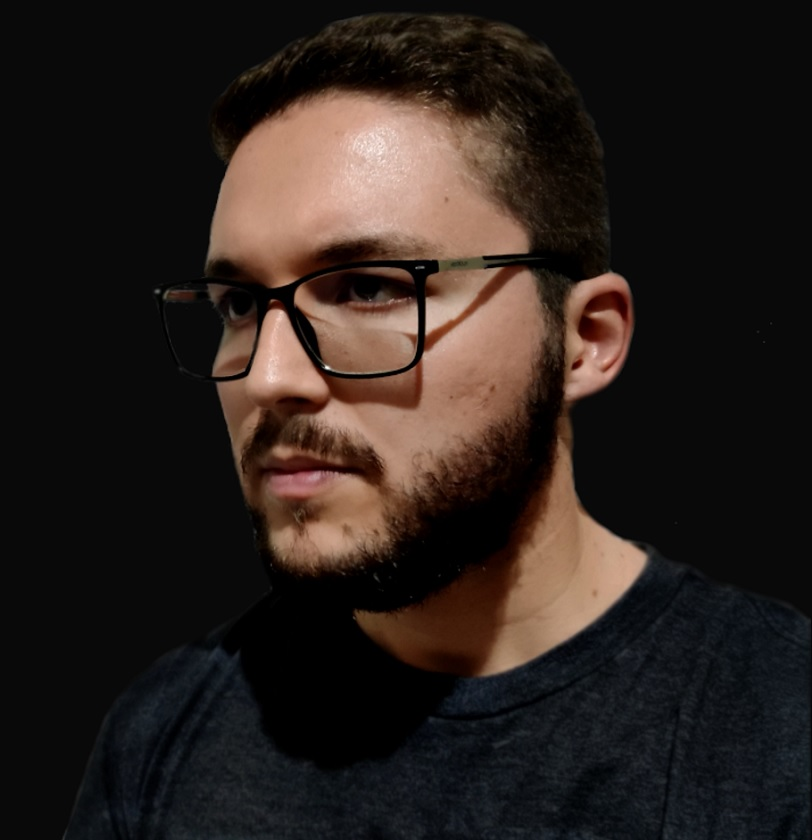
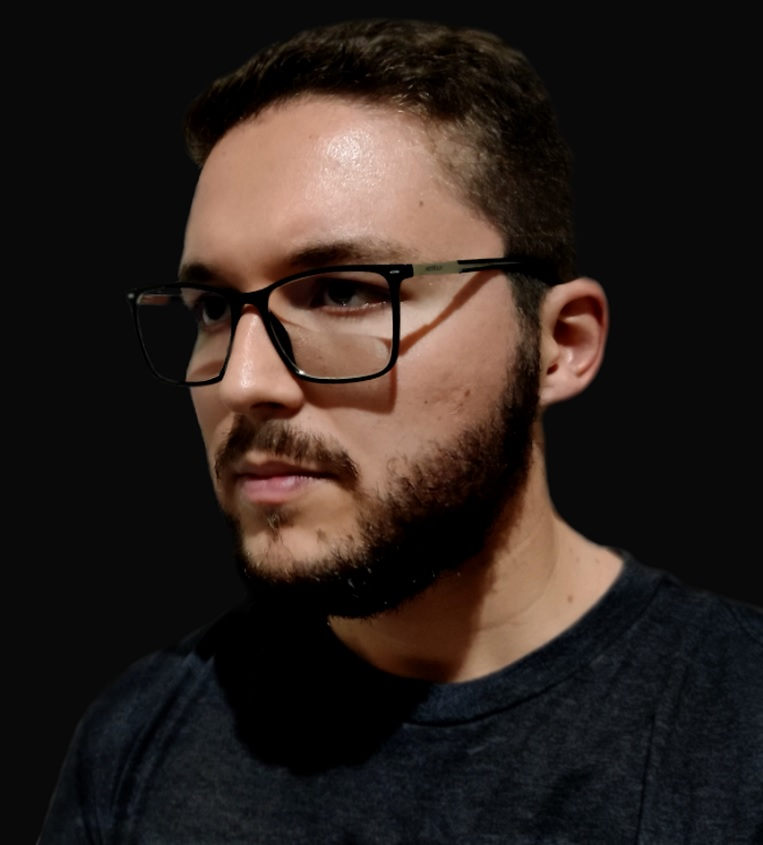
varias att

diff --git a/index.html b/index.html
@@ -4,7 +4,7 @@
 <head>
     <meta charset="utf-8">
     <meta name="viewport" content="width=device-width, initial-scale=1">
-    <title>Lucas F. Santos | Portifólio</title>
+    <title>Lucas F. Santos | DEV</title>
     <link rel="stylesheet" type="text/css" href="style.css">
 
     <link rel="stylesheet" href="https://unpkg.com/boxicons@latest/css/boxicons.min.css">
@@ -24,19 +24,19 @@
         <ul class="navbar">
             <li><a href="#home">Início</a></li>
             <li><a href="#about">Sobre Mim</a></li>
-            <li><a href="#services">Serviços</a></li>
+            <li><a href="#services">Formação</a></li>
             <li><a href="#portifolio">Portifólio</a></li>
             <li><a href="#contact">Contato</a></li>
         </ul>
-        <a href="#" class="h-btn">Vamos Conversar</a>
+        <a href="#" class="h-btn">Iniciar Conversa</a>
     </header>
 
     <!---start home-->
     <section class="home" id="home">
         <div class="home-text">
-            <h4>Olá, meu nome é</h4>
+            <h4>Olá! Meu nome é </h4>
             <h1>Lucas <span> Felipe</span></h1>
-            <h3>Sou Estudante de ADS</h3>
+            <h3>Aspirante a Web Designer</h3>
             <!-- <div class="newsletter">
                 <form>
                     <input type="email" name="email" id="mail" placeholder="Coloque Seu E-mail">
@@ -49,7 +49,7 @@
     <!---start about-->
     <section class="about" id="about">
         <div class="about-img">
-            <img src="img/teste.jpg">
+            <img src="img/sobrecolor.jpg">
         </div>
 
         <div class="about-text">

diff --git a/style.css b/style.css
@@ -14,7 +14,7 @@
     --secound-bg-color: #191919;
     --text-color: #fff;
     --secound-color: #c6c9d8bf;
-    --main-color: #f9004d;
+    --main-color: #cf0303;
     --big-font: 5.3rem;
     --h2-font: 4.2rem;
     --p-font: 1.1rem;
@@ -206,12 +206,15 @@ header.sticky {
 .about-text h2 {
     font-size: var(--h2-font);
     margin-bottom: 20px;
+    text-align: center;
+    letter-spacing: 1px;
 }
 
 .about-text h5 {
     font-size: 28px;
     margin-bottom: 25px;
-    letter-spacing: 2px;
+    letter-spacing: 1px;
+    text-align: center;
 }
 
 .about-text p {
@@ -221,7 +224,7 @@ header.sticky {
     max-width: 590px;
     font-size: var(--p-font);
     margin-bottom: 45px;
-    text-align: justify;
+    text-align: center;
 }
 
 /* .btn {
@@ -491,7 +494,6 @@ input {
     }
 
     .about-img {
-        text-align: center;
         margin-bottom: 30px;
     }
 
@@ -513,6 +515,7 @@ input {
     .contact-form {
         order: 2;
     }
+
 
     .box img {
         max-width: 100%;
